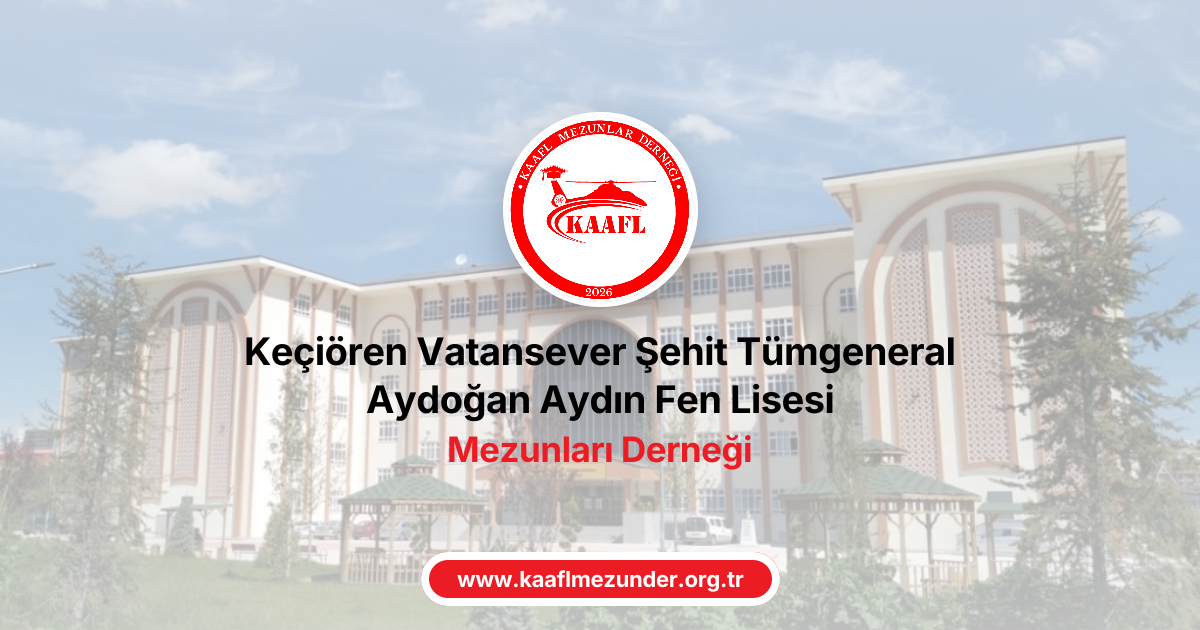
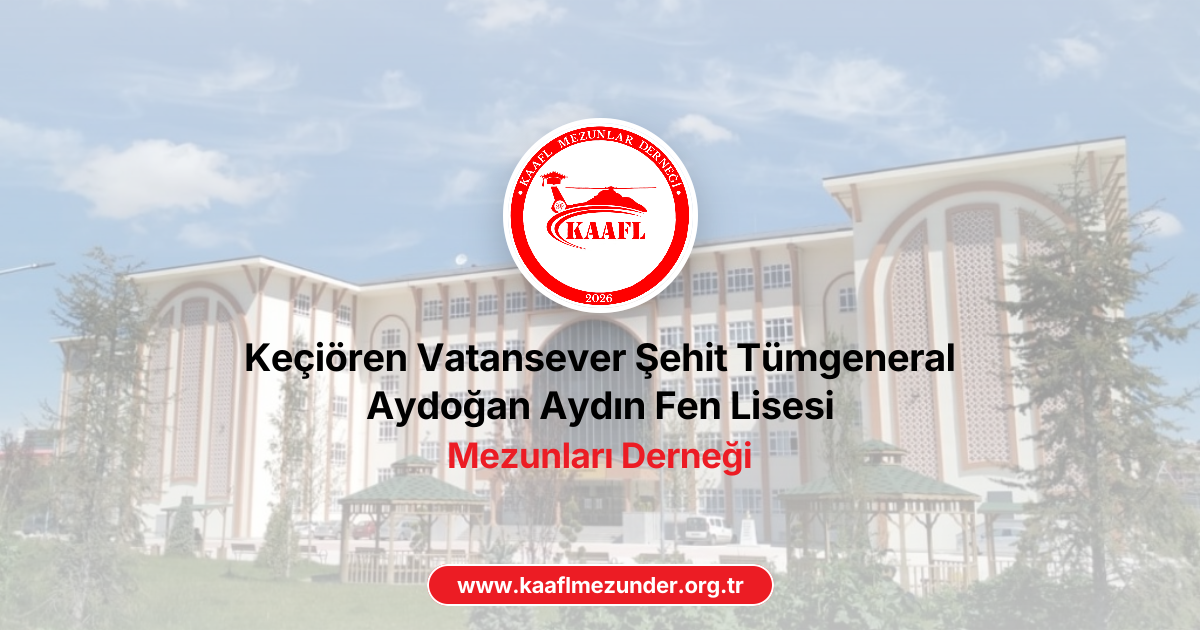
revert: rollback domain badge border adjustments to clean thin border state

Changed region(s): [[0.185, 0.5127, 0.8017, 0.754], [0.4008, 0.181, 0.5858, 0.5127], [0.3392, 0.8746, 0.6475, 0.9651]]

diff --git a/src/app/layout.tsx b/src/app/layout.tsx
@@ -63,7 +63,7 @@ export const metadata: Metadata = {
     description: associationDescription,
     images: [
       {
-        url: "/images/og-image.jpg?v=12",
+        url: "/images/og-image.jpg?v=13",
         width: 1200,
         height: 630,
         type: "image/jpeg",
@@ -75,7 +75,7 @@ export const metadata: Metadata = {
     card: "summary_large_image",
     title: `${associationName} | KAAFL Mezunları Derneği`,
     description: associationDescription,
-    images: ["/images/og-image.jpg?v=12"],
+    images: ["/images/og-image.jpg?v=13"],
   },
   robots: {
     index: true,

diff --git a/src/config/site.ts b/src/config/site.ts
@@ -13,7 +13,7 @@ export const siteConfig = {
   name: associationName,
   shortName: associationShortName,
   url: siteUrl,
-  ogImage: `${siteUrl}/images/og-image.jpg?v=12`,
+  ogImage: `${siteUrl}/images/og-image.jpg?v=13`,
   logoUrl: `${siteUrl}/logo-dernek.jpg`,
   faviconUrl: `${siteUrl}/logo-dernek.svg`,
   description: associationDescription,

diff --git a/src/app/opengraph-image.tsx b/src/app/opengraph-image.tsx
@@ -183,7 +183,7 @@ export default async function OpenGraphImage() {
               background: brandRed,
               padding: "8px 28px",
               borderRadius: "9999px",
-              border: "8px solid #ffffff",
+              border: "2px solid #ffffff",
             }}
           >
             <span
